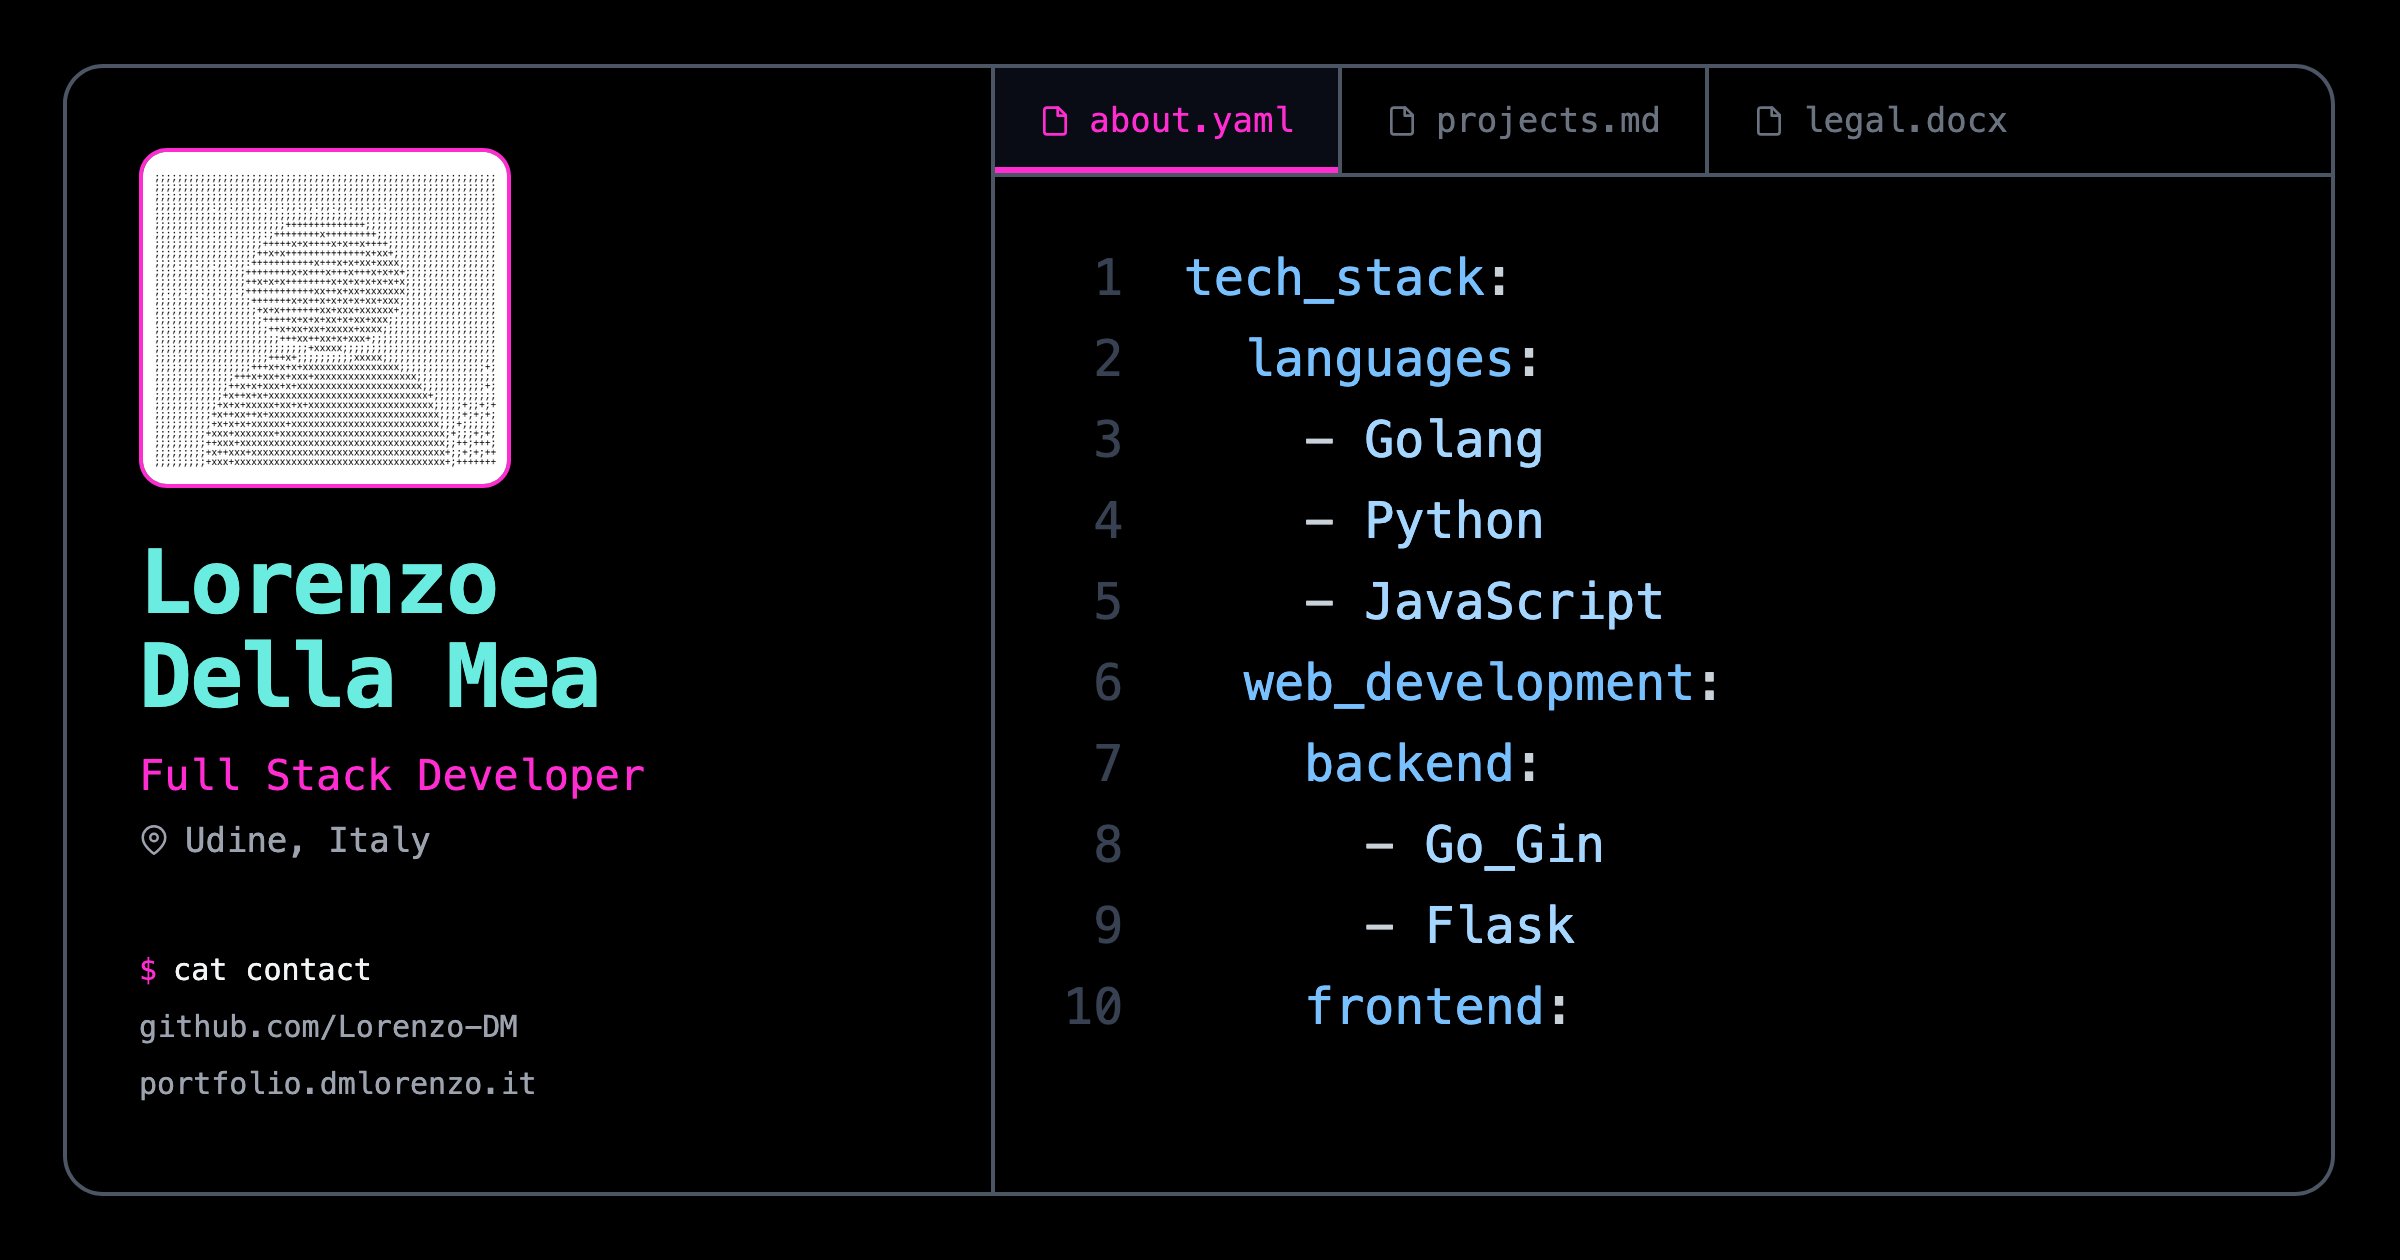
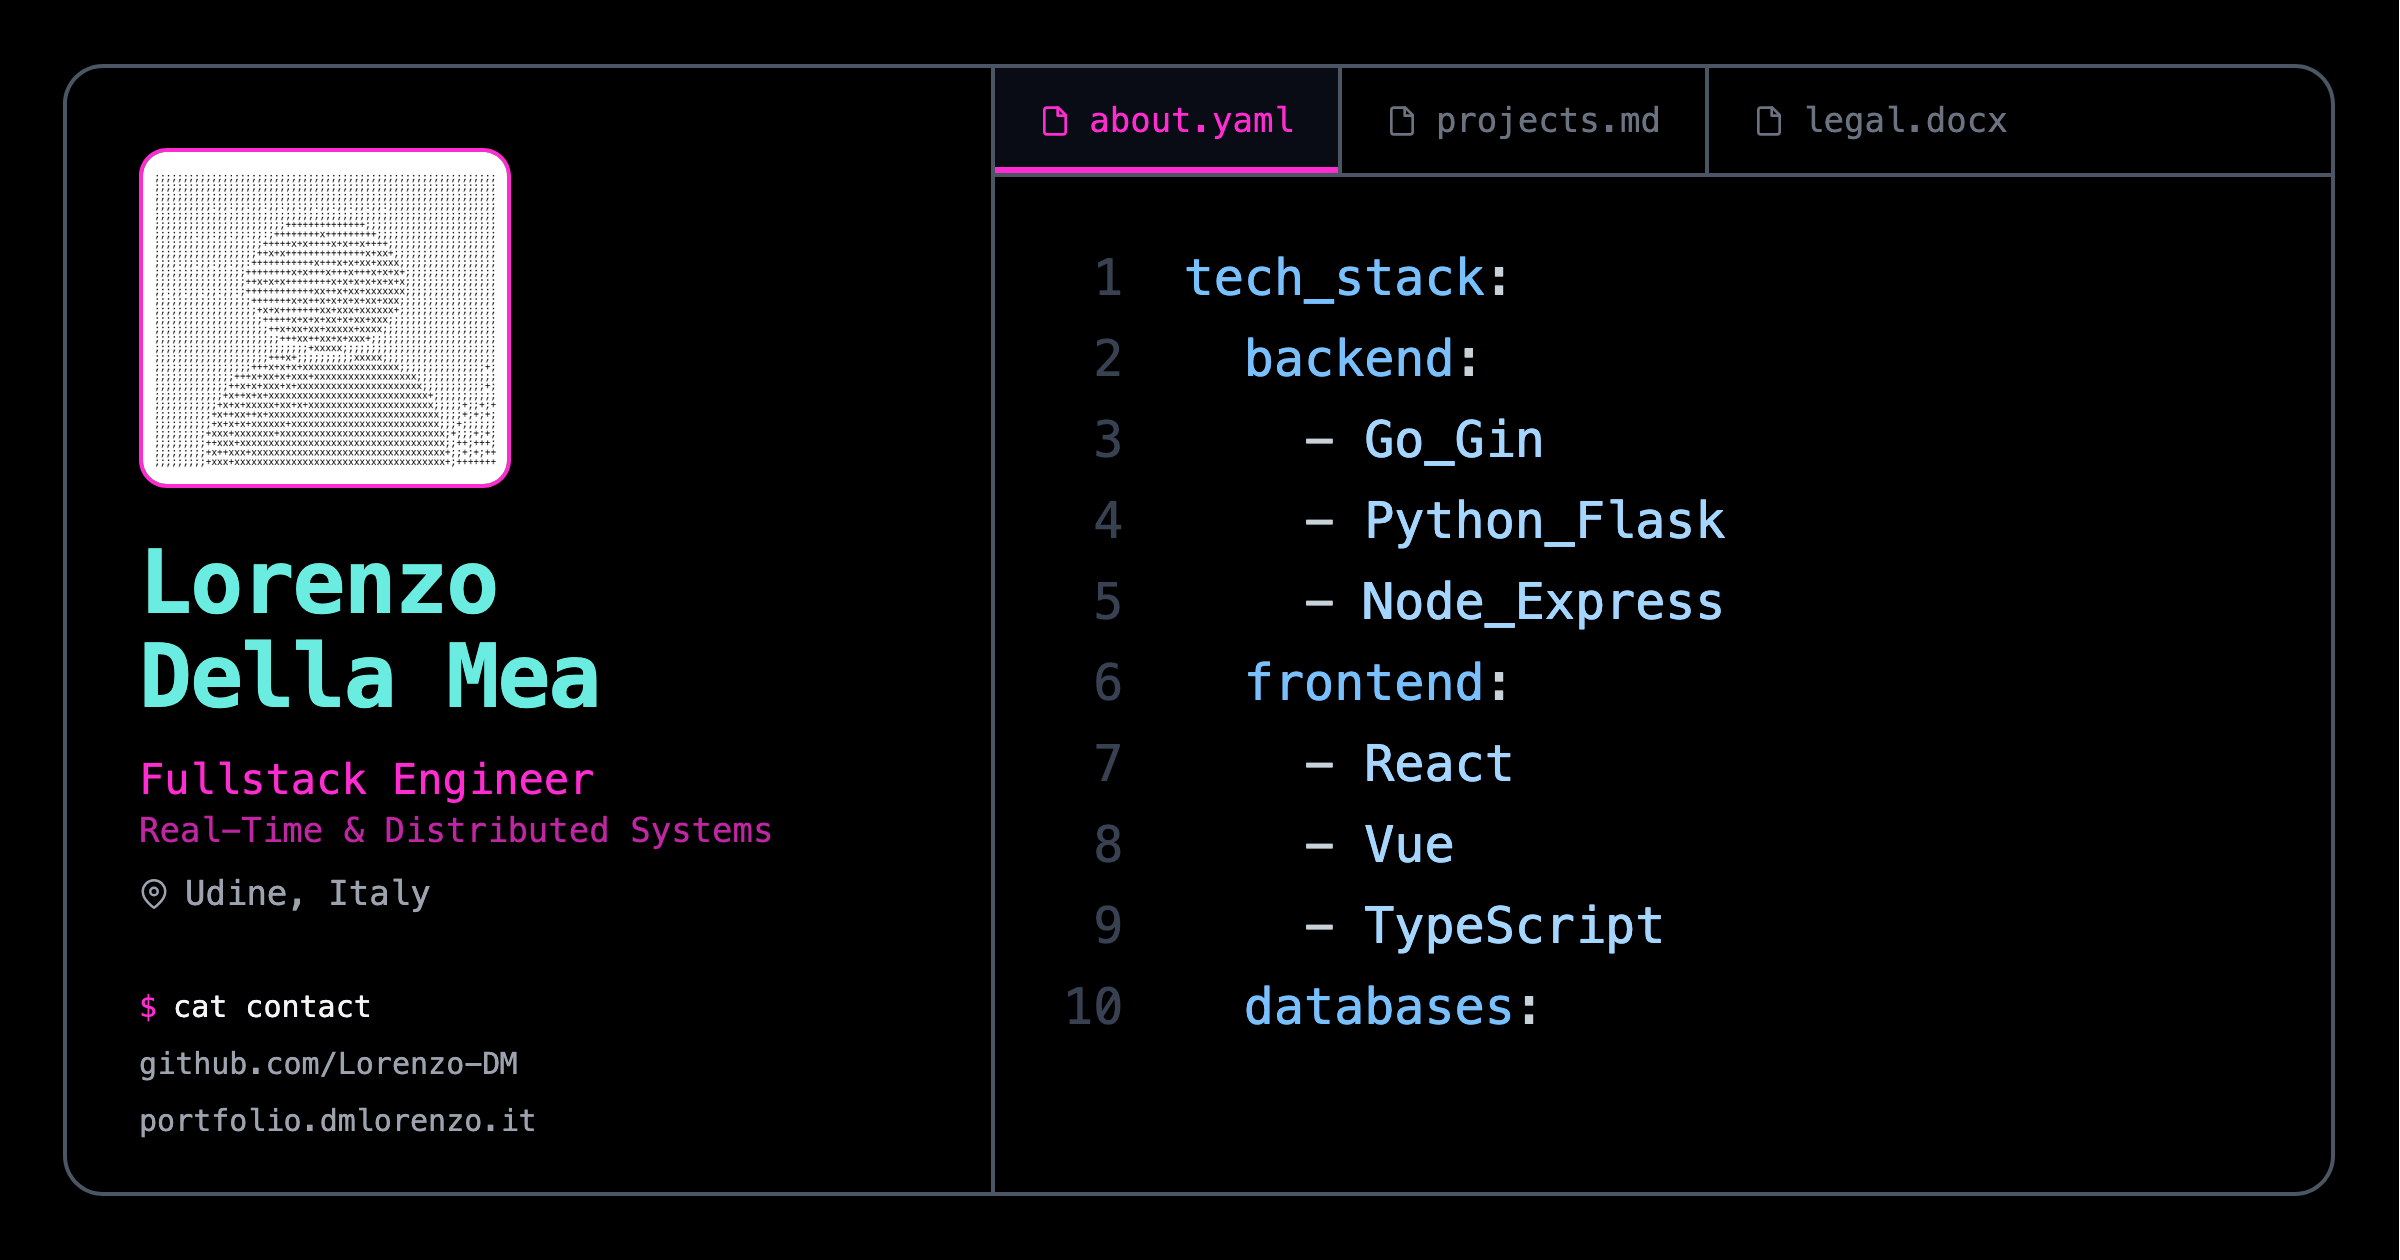
refactor: enhance project showcase component with structured metadata and improve layout accessibility and responsiveness.

diff --git a/tools/og-image.html b/tools/og-image.html
@@ -94,7 +94,13 @@
   .role {
     margin-top: 14px;
     font-size: 21px;
+    line-height: 1.35;
     color: var(--primary);
+  }
+  .role .spec {
+    display: block;
+    font-size: 17px;
+    color: #c026a4;
   }
 
   .location {
@@ -107,6 +113,7 @@
   }
 
   .contact {
+    margin-top: 32px;
     font-size: 15px;
     line-height: 1.9;
     color: var(--gray-500);
@@ -190,7 +197,10 @@
       <div>
         <img class="avatar" src="../src/assets/profile.png" alt="" />
         <div class="name">Lorenzo<br />Della Mea</div>
-        <div class="role">Full Stack Developer</div>
+        <div class="role">
+          Fullstack Engineer
+          <span class="spec">Real-Time Systems</span>
+        </div>
         <div class="location">
           <svg fill="none" height="15" stroke="currentColor" stroke-linecap="round"
                stroke-linejoin="round" stroke-width="2" viewBox="0 0 24 24" width="15"
@@ -239,7 +249,7 @@
         </div>
       </div>
 
-      <div class="code"><span class="line"><span class="k">tech_stack</span><span class="p">:</span></span><span class="line">  <span class="k">languages</span><span class="p">:</span></span><span class="line">    <span class="p">-</span> <span class="v">Golang</span></span><span class="line">    <span class="p">-</span> <span class="v">Python</span></span><span class="line">    <span class="p">-</span> <span class="v">JavaScript</span></span><span class="line">  <span class="k">web_development</span><span class="p">:</span></span><span class="line">    <span class="k">backend</span><span class="p">:</span></span><span class="line">      <span class="p">-</span> <span class="v">Go_Gin</span></span><span class="line">      <span class="p">-</span> <span class="v">Flask</span></span><span class="line">    <span class="k">frontend</span><span class="p">:</span></span></div>
+      <div class="code"><span class="line"><span class="k">tech_stack</span><span class="p">:</span></span><span class="line">  <span class="k">backend</span><span class="p">:</span></span><span class="line">    <span class="p">-</span> <span class="v">Go_Gin</span></span><span class="line">    <span class="p">-</span> <span class="v">Python_Flask</span></span><span class="line">    <span class="p">-</span> <span class="v">Node_Express</span></span><span class="line">  <span class="k">frontend</span><span class="p">:</span></span><span class="line">    <span class="p">-</span> <span class="v">React</span></span><span class="line">    <span class="p">-</span> <span class="v">Vue</span></span><span class="line">    <span class="p">-</span> <span class="v">TypeScript</span></span><span class="line">  <span class="k">databases</span><span class="p">:</span></span></div>
     </div>
     <!-- End: editor column -->
 
